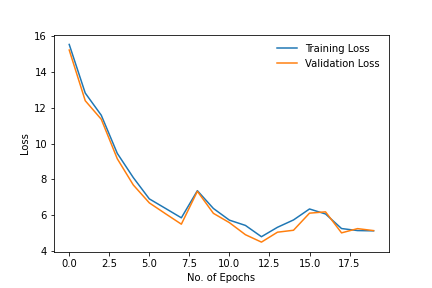
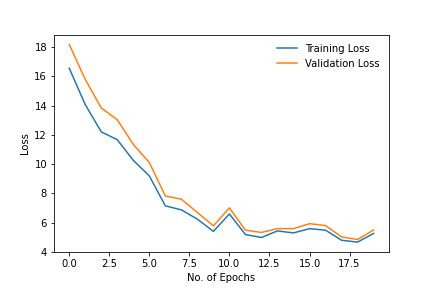
Added multimodal_fit as jupyter notebook

diff --git a/metrics_test/.ipynb_checkpoints/Multimodal_Fit-checkpoint.py b/metrics_test/.ipynb_checkpoints/Multimodal_Fit-checkpoint.py
@@ -35,39 +35,33 @@ from ignite.handlers import ModelCheckpoint, EarlyStopping
 # -
 
 def generate_data(length):
-    x = np.empty(length)
-    sep = int(length/3.)
-    x[:sep] = 2/5*np.random.randn(sep)-4
-    x[sep:2*sep] = 0.9*np.random.randn(sep)
-    x[2*sep:] = 2/5*np.random.randn(sep)+4
-
-    y = 7*np.sin(x) + 3*abs(np.cos(x/2))*np.random.randn(len(x))
+    x = 2.5*np.random.rand(length) - 0.5
+    rand_sep = int(np.random.rand()*length)
+    y = np.empty(length)
+    y[:rand_sep] = 10*np.sin(x[:rand_sep]) + np.random.randn(rand_sep)
+    y[rand_sep:] = 10*np.cos(x[rand_sep:]) + np.random.randn(length - rand_sep)
     return x, y
+    
 
 
 class Net(nn.Module):
     def __init__(self):
         super(Net, self).__init__()
-        self.fc1 = nn.Linear(2, 20)
-        self.fc2 = nn.Linear(20, 30)
-        self.drop = nn.Dropout(0.5)
-        self.fc3 = nn.Linear(30, 20)
+        self.fc1 = nn.Linear(2, 30)
+        self.fc2 = nn.Linear(30, 40)
+        self.drop1 = nn.Dropout(0.5)
+        self.fc3 = nn.Linear(40, 20)
         self.drop2 = nn.Dropout(0.5)
         self.fc4 = nn.Linear(20, 1)
     
     def forward(self, x):
         x = F.relu(self.fc1(x))
         x = F.relu(self.fc2(x))
-        x = self.drop(x)
+        x = self.drop1(x)
         x = F.relu(self.fc3(x))
         x = self.drop2(x)
         x = self.fc4(x)
         return x
-
-
-def score_function(engine):
-    val_loss = engine.state.metrics['loss']
-    return -val_loss
 
 
 # +
@@ -83,14 +77,14 @@ def log_training_results(trainer):
 def log_validation_results(trainer):
     val_evaluator.run(data_val)
     metrics = val_evaluator.state.metrics
-    loss = metrics["loss"]
+    loss = metrics["loss"] 
     validation_history["loss"].append(loss)
     print("Validation Results - Epoch: {}  Avg loss: {:.2f}"
           .format(trainer.state.epoch, loss))
     
 def test_data(val_data, net):
     with torch.no_grad():
-        data_pred = net(val_data.float())
+        data_pred = net(data.float())
     return data_pred
 
 
@@ -141,7 +135,7 @@ net = net.float()
 
 trainer.run(data_train, max_epochs=epochs)
 
-torch.save(net.state_dict(), "./weights/heteroscedastic/3layer_epochs_{}_withdropout.pt".format(epochs))
+torch.save(net.state_dict(), "./weights/multimodal/3layer_epochs_{}_withdropout.pt".format(epochs))
 # -
 
 plt.plot(training_history['loss'],label="Training Loss")
@@ -149,7 +143,7 @@ plt.plot(validation_history['loss'],label="Validation Loss")
 plt.xlabel('No. of Epochs')
 plt.ylabel('Loss')
 plt.legend(frameon=False)
-plt.savefig("./plots/heteroscedastic/loss_function_3layer_noepochs_{}_withdropout.png".format(epochs))
+plt.savefig("./plots/multimodal/loss_function_3layer_noepochs_{}_withdropout.png".format(epochs))
 plt.show()
 
 test_length = 750
@@ -160,5 +154,7 @@ predictions = []
 for data in data_pred_torch:
     predictions.append(test_data(data, net))
 plt.plot(data_pred, predictions, '.b', label = "Predicted Data")
-plt.savefig("./plots/heteroscedastic/pred_pts{}_nrepochs_{}_3layer_withdropout.png".format(test_length, epochs))
+plt.savefig("./plots/multimodal/pred_pts{}_nrepochs_{}_3layer_withdropout.png".format(test_length, epochs))
 plt.show()
+
+

diff --git a/metrics_test/Multimodal_Fit.py b/metrics_test/Multimodal_Fit.py
@@ -35,39 +35,33 @@ from ignite.handlers import ModelCheckpoint, EarlyStopping
 # -
 
 def generate_data(length):
-    x = np.empty(length)
-    sep = int(length/3.)
-    x[:sep] = 2/5*np.random.randn(sep)-4
-    x[sep:2*sep] = 0.9*np.random.randn(sep)
-    x[2*sep:] = 2/5*np.random.randn(sep)+4
-
-    y = 7*np.sin(x) + 3*abs(np.cos(x/2))*np.random.randn(len(x))
+    x = 2.5*np.random.rand(length) - 0.5
+    rand_sep = int(np.random.rand()*length)
+    y = np.empty(length)
+    y[:rand_sep] = 10*np.sin(x[:rand_sep]) + np.random.randn(rand_sep)
+    y[rand_sep:] = 10*np.cos(x[rand_sep:]) + np.random.randn(length - rand_sep)
     return x, y
+    
 
 
 class Net(nn.Module):
     def __init__(self):
         super(Net, self).__init__()
-        self.fc1 = nn.Linear(2, 20)
-        self.fc2 = nn.Linear(20, 30)
-        self.drop = nn.Dropout(0.5)
-        self.fc3 = nn.Linear(30, 20)
+        self.fc1 = nn.Linear(2, 30)
+        self.fc2 = nn.Linear(30, 40)
+        self.drop1 = nn.Dropout(0.5)
+        self.fc3 = nn.Linear(40, 20)
         self.drop2 = nn.Dropout(0.5)
         self.fc4 = nn.Linear(20, 1)
     
     def forward(self, x):
         x = F.relu(self.fc1(x))
         x = F.relu(self.fc2(x))
-        x = self.drop(x)
+        x = self.drop1(x)
         x = F.relu(self.fc3(x))
         x = self.drop2(x)
         x = self.fc4(x)
         return x
-
-
-def score_function(engine):
-    val_loss = engine.state.metrics['loss']
-    return -val_loss
 
 
 # +
@@ -83,14 +77,14 @@ def log_training_results(trainer):
 def log_validation_results(trainer):
     val_evaluator.run(data_val)
     metrics = val_evaluator.state.metrics
-    loss = metrics["loss"]
+    loss = metrics["loss"] 
     validation_history["loss"].append(loss)
     print("Validation Results - Epoch: {}  Avg loss: {:.2f}"
           .format(trainer.state.epoch, loss))
     
 def test_data(val_data, net):
     with torch.no_grad():
-        data_pred = net(val_data.float())
+        data_pred = net(data.float())
     return data_pred
 
 
@@ -141,7 +135,7 @@ net = net.float()
 
 trainer.run(data_train, max_epochs=epochs)
 
-torch.save(net.state_dict(), "./weights/heteroscedastic/3layer_epochs_{}_withdropout.pt".format(epochs))
+torch.save(net.state_dict(), "./weights/multimodal/3layer_epochs_{}_withdropout.pt".format(epochs))
 # -
 
 plt.plot(training_history['loss'],label="Training Loss")
@@ -149,7 +143,7 @@ plt.plot(validation_history['loss'],label="Validation Loss")
 plt.xlabel('No. of Epochs')
 plt.ylabel('Loss')
 plt.legend(frameon=False)
-plt.savefig("./plots/heteroscedastic/loss_function_3layer_noepochs_{}_withdropout.png".format(epochs))
+plt.savefig("./plots/multimodal/loss_function_3layer_noepochs_{}_withdropout.png".format(epochs))
 plt.show()
 
 test_length = 750
@@ -160,5 +154,7 @@ predictions = []
 for data in data_pred_torch:
     predictions.append(test_data(data, net))
 plt.plot(data_pred, predictions, '.b', label = "Predicted Data")
-plt.savefig("./plots/heteroscedastic/pred_pts{}_nrepochs_{}_3layer_withdropout.png".format(test_length, epochs))
+plt.savefig("./plots/multimodal/pred_pts{}_nrepochs_{}_3layer_withdropout.png".format(test_length, epochs))
 plt.show()
+
+
